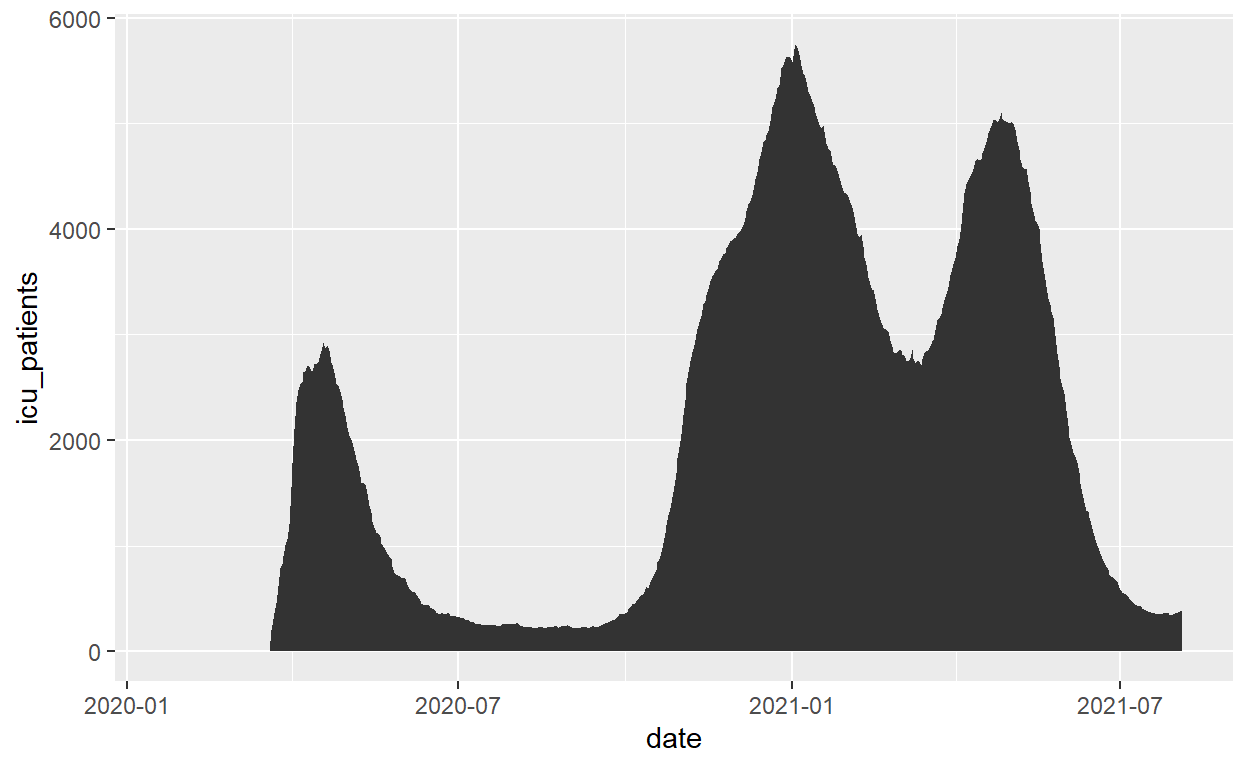
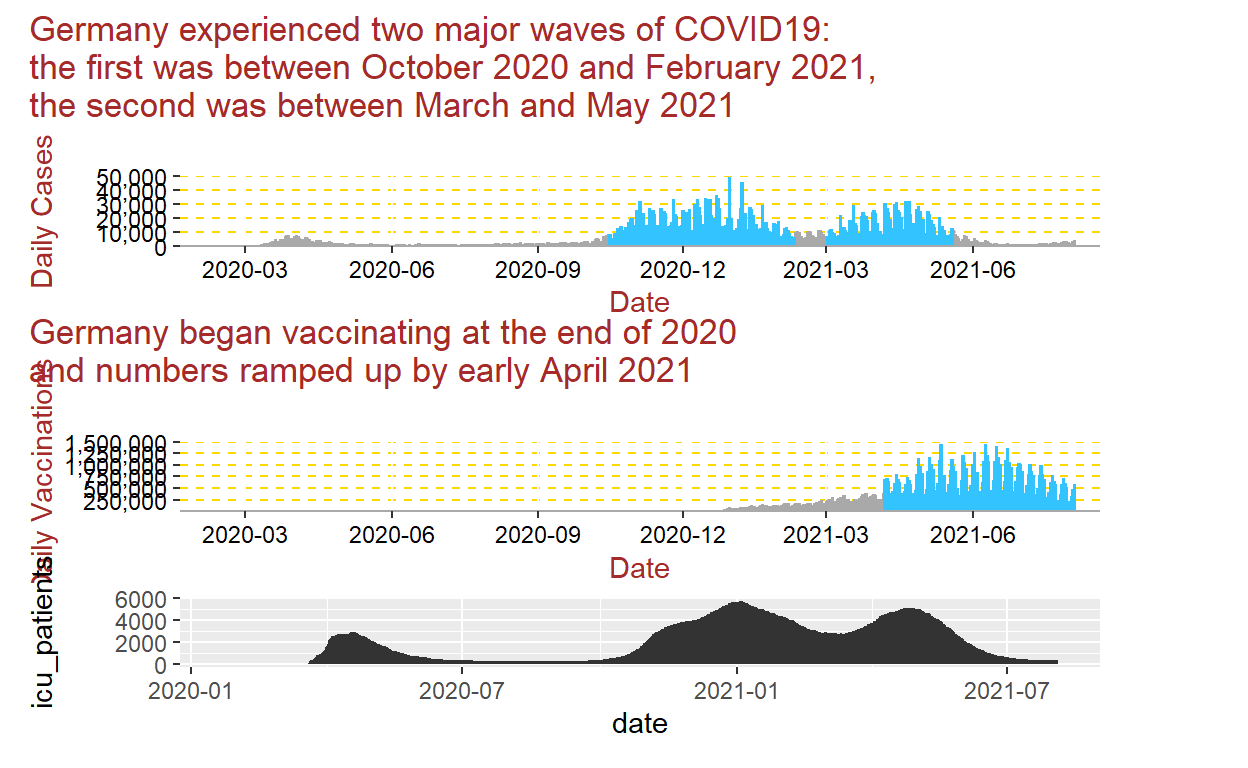
started on combined plot

diff --git a/_posts/2021-09-13-covid19-in-germany/covid19-in-germany.html b/_posts/2021-09-13-covid19-in-germany/covid19-in-germany.html
@@ -1558,7 +1558,10 @@ code span.wa { color: #5e5e5e; font-style: italic; } /* Warning */
 </div>
 <p>The graph shows that Germany ramped it its vaccination efforts starting in early April 2021 with a peak of 1,427,070 vaccinations administered on June 9, 2021. As per <a href="https://ourworldindata.org/covid-vaccinations?country=OWID_WRL#citation">Our World In Data</a>, Germany’s vaccination rate currently stands at 62.3%.</p>
 <div class="layout-chunk" data-layout="l-body">
-<p><img src="covid19-in-germany_files/figure-html5/unnamed-chunk-3-1.png" width="624" /></p>
+
+</div>
+<div class="layout-chunk" data-layout="l-body">
+<p><img src="covid19-in-germany_files/figure-html5/unnamed-chunk-4-1.png" width="624" /></p>
 </div>
 <div class="sourceCode" id="cb1"><pre class="sourceCode r distill-force-highlighting-css"><code class="sourceCode r"></code></pre></div>
 <!--radix_placeholder_article_footer-->

diff --git a/docs/posts/2021-09-13-covid19-in-germany/index.html b/docs/posts/2021-09-13-covid19-in-germany/index.html
@@ -2421,7 +2421,10 @@ d-appendix d-footnote-list a.footnote-backlink {
 </div>
 <p>The graph shows that Germany ramped it its vaccination efforts starting in early April 2021 with a peak of 1,427,070 vaccinations administered on June 9, 2021. As per <a href="https://ourworldindata.org/covid-vaccinations?country=OWID_WRL#citation">Our World In Data</a>, Germany’s vaccination rate currently stands at 62.3%.</p>
 <div class="layout-chunk" data-layout="l-body">
-<p><img src="covid19-in-germany_files/figure-html5/unnamed-chunk-3-1.png" width="624" /></p>
+
+</div>
+<div class="layout-chunk" data-layout="l-body">
+<p><img src="covid19-in-germany_files/figure-html5/unnamed-chunk-4-1.png" width="624" /></p>
 </div>
 <div class="sourceCode" id="cb1"><pre class="sourceCode r distill-force-highlighting-css"><code class="sourceCode r"></code></pre></div>
 <!--radix_placeholder_article_footer-->

diff --git a/docs/index.html b/docs/index.html
@@ -2452,7 +2452,7 @@ function init_posts_list() {
 <a href="posts/2021-09-13-covid19-in-germany/" class="post-preview">
 <script class="post-metadata" type="text/json">{"categories":[]}</script>
 <div class="metadata">
-<div class="publishedDate">Sept. 13, 2021</div>
+<div class="publishedDate">Sept. 12, 2021</div>
 <div class="dt-authors">
 <div class="dt-author">Ibrahim Al-Hindi</div>
 </div>
@@ -2488,7 +2488,7 @@ function init_posts_list() {
 <a href="#">More articles &raquo;</a>
 </div>
 </div>
-<!--/radix_placeholder_article_listing-->
+<!--/radix_placeholder_article_listing-->
 
 <div class="d-title">
 <h1>My Blog</h1>
